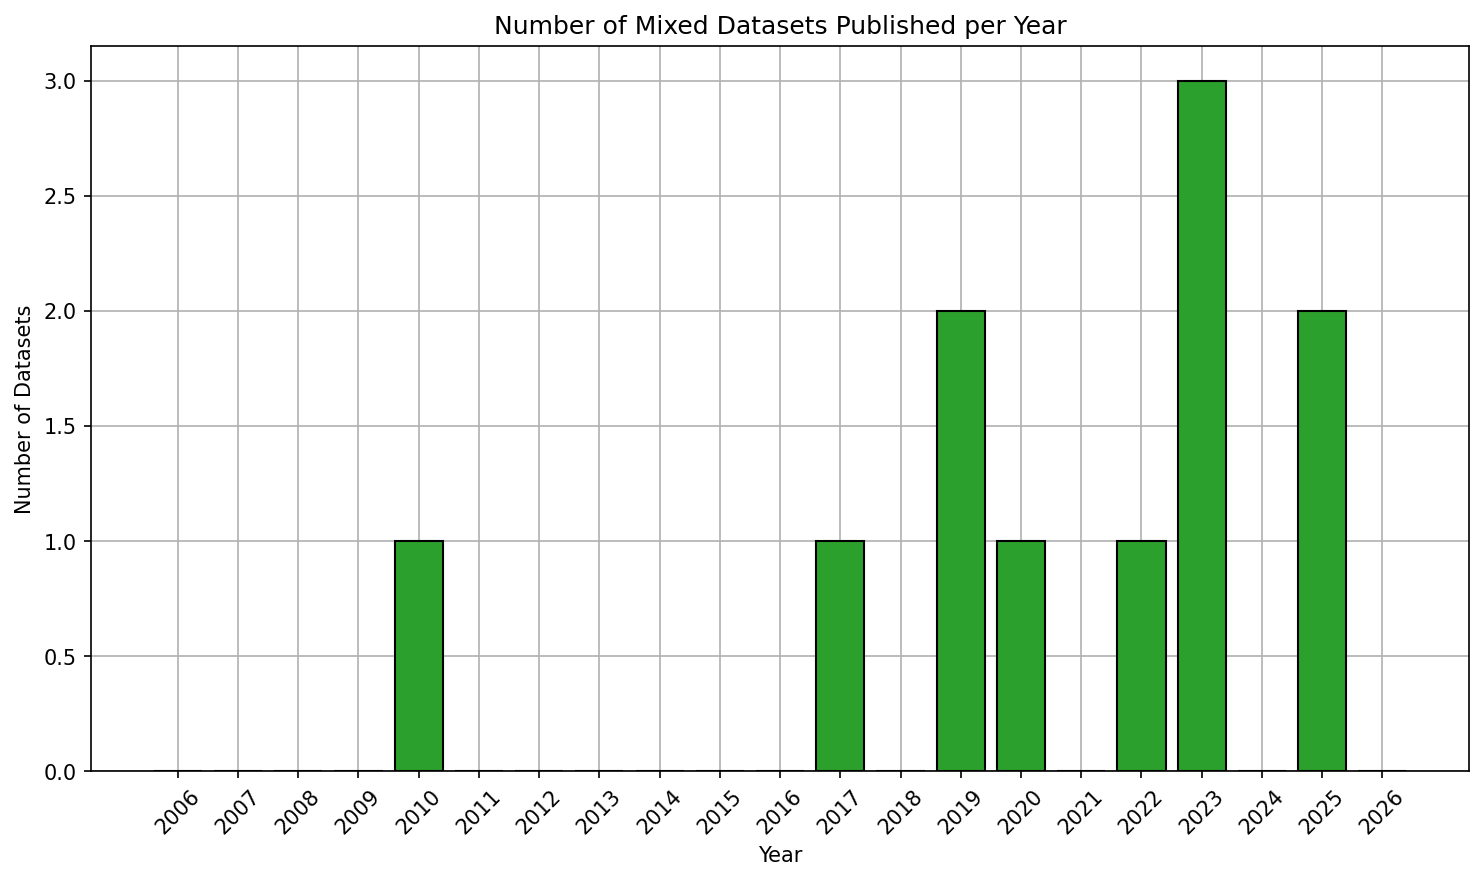
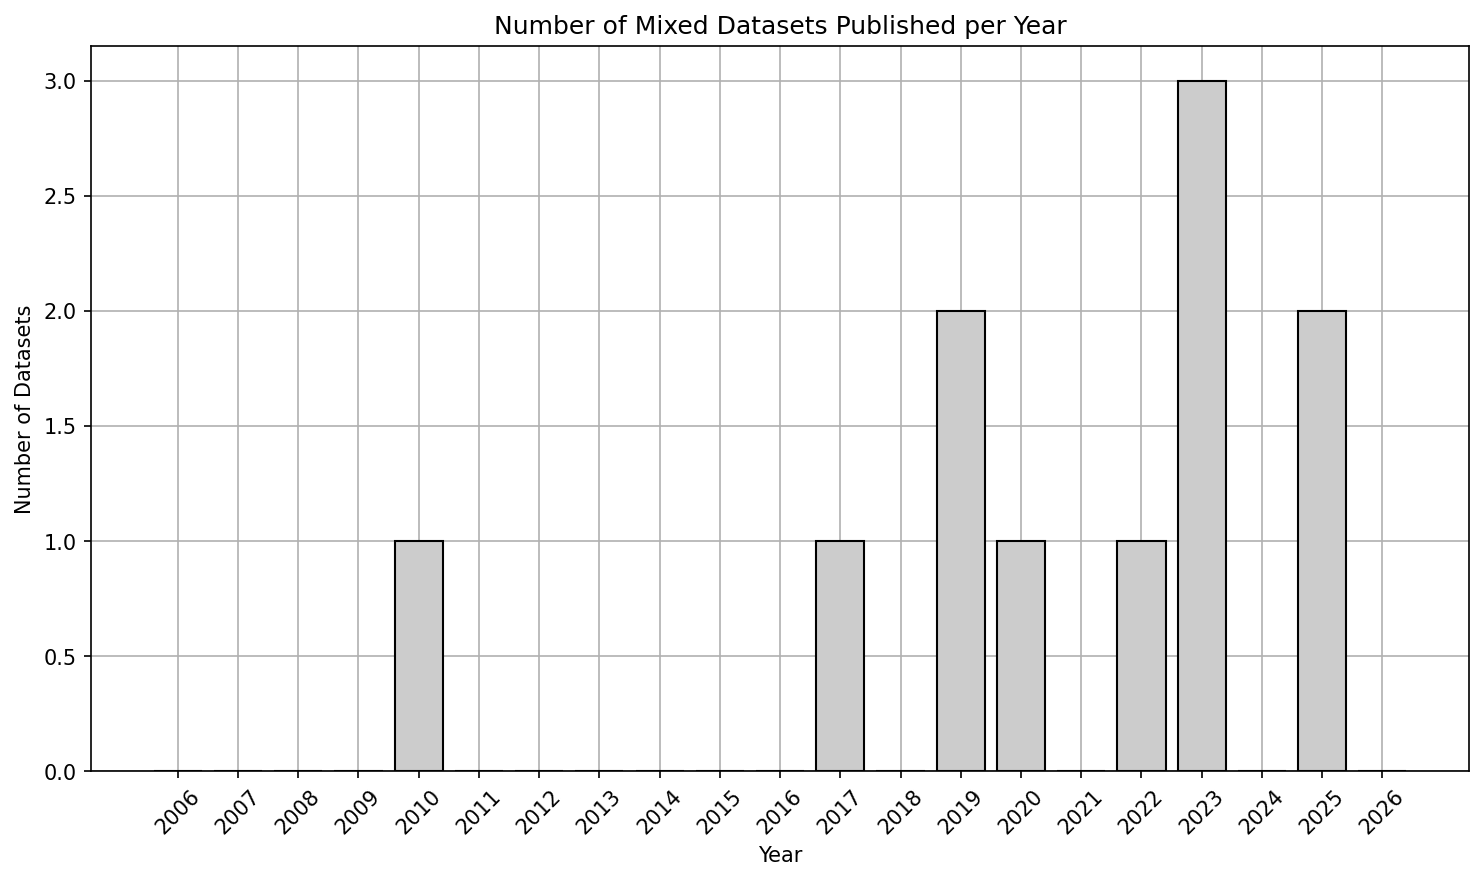
TUM Color 01,02,03

diff --git a/dataset/tum_colors.py b/dataset/tum_colors.py
@@ -1,0 +1,55 @@
+# Official TUM Color Palette
+# Source: TUM Corporate Design Guidelines
+#
+# Color usage hierarchy:
+# 1. Simple graphs (1-3 categories)  → use blue shades only (TUM_BLUES)
+# 2. More categories needed          → add Akzentfarben (TUM_ACCENT)
+# 3. Complex diagrams                → extended palette permissible (TUM_EXT)
+
+# ── Primary Colors ────────────────────────────────────────────────────────────
+TUM_PRIMARY = {
+    'tum_blue'  : '#0065BD',   # TUMBlue — Pantone 300C, main brand color
+    'black'     : '#000000',
+    'white'     : '#FFFFFF',
+}
+
+# ── Secondary Colors ──────────────────────────────────────────────────────────
+TUM_SECONDARY = {
+    'blue1'     :  '#003359',   # Pantone 540
+    'blue1_08'  :  '#335C7A',
+    'blue1_05'  :  '#8099AC',
+    'blue1_02'  :  '#CCD6DE',
+    'blue2'     :  '#005293',   # Pantone 301
+    'blue2_08'  :  '#3375A9',
+    'blue2_05'  :  '#80A9C9',
+    'blue2_02'  :  '#CCDCE9',
+    'dark_gray' :  '#333333',   # 80% black
+    'gray'      :  '#808080',   # 50% black
+    'light_gray':  '#CCCCCC',   # 20% black
+}
+
+
+# ── Akzentfarben (Accent Colors) ──────────────────────────────────────────────
+# Use when blue shades are not enough
+TUM_ACCENT = {
+    'beige'      : '#DAD7CB',   # Pantone 7527
+    'orange'     : '#E37222',   # Pantone 158
+    'green'      : '#A2AD00',   # Pantone 383
+    'blue'       : '#64A0C8',   # Pantone 542
+    'light_blue' : '#98C6EA',   # Pantone 283
+}
+   
+
+# ── Extended Palette — complex diagrams and infographics only ─────────────────
+TUM_EXT = {
+    'purple':      '#69085A',   # RGB 105/8/90
+    'navy':        '#0F1B5F',   # RGB 15/27/95
+    'teal':        '#00778A',   # RGB 0/119/138
+    'dark_green':  '#007C30',   # RGB 0/124/48
+    'olive':       '#679A1D',   # RGB 103/154/29
+    'yellow':      '#FDC000',   # RGB 255/220/0
+    'gold':        '#F6BA00',   # RGB 249/186/0
+    'orange':      '#D64C13',   # RGB 214/76/19
+    'red':         '#C4071B',   # RGB 196/7/27
+    'maroon':      '#9C0D16',   # RGB 156/13/22
+}

diff --git a/dataset/total_dataset_analysis/03_avg_sensors_per_year.py b/dataset/total_dataset_analysis/03_avg_sensors_per_year.py
@@ -1,14 +1,12 @@
 import pandas as pd
 import matplotlib.pyplot as plt
-import os
+import os, sys
+sys.path.append(os.path.join(os.path.dirname(os.path.abspath(__file__)), '..'))
+from tum_colors import TUM_SECONDARY, TUM_EXT
 
 BASE_DIR = os.path.dirname(os.path.abspath(__file__))
 df = pd.read_csv(os.path.join(BASE_DIR, 'dataset_cleaned.csv'))
 
-# Filter: Real (0) + Original (0) only
-# Exclude Synthetic: no physical sensors
-# Exclude Mixed: unknown real/synthetic ratio
-# Exclude Derived/Extension/Aggregated: causes double counting of sensors
 filtered = df[
     (df['Real / Synthetic / Mixed'] == 0) &
     (df['Original / Derived / Extension / Aggregated'] == 0) |
@@ -31,8 +29,8 @@ fig, ax1 = plt.subplots(figsize=(10, 6))
 ax2 = ax1.twinx()
 ax1.grid(True, alpha=0.4, zorder=1)
 ax1.set_axisbelow(True)
-ax2.bar(stats.index, stats['count'],  edgecolor='black', label='Number of Datasets', zorder=2, alpha=0.4)
-ax1.plot(valid.index, valid['mean'], color='red', linewidth=2, marker='o', markerfacecolor='white', markeredgecolor='red', label='Average Sensors', zorder=3)
+ax2.bar(stats.index, stats['count'], color=TUM_SECONDARY['blue2'], edgecolor='black', label='Number of Datasets', zorder=2, alpha=0.5)
+ax1.plot(valid.index, valid['mean'], color=TUM_EXT['red'], linewidth=2, marker='o', markerfacecolor='white', markeredgecolor=TUM_EXT['red'], label='Average Sensors', zorder=3)
 ax1.set_title('Average Sensor Count per Year (Real & Original+Extension Datasets only)')
 ax1.set_xlabel('Year')
 ax1.set_ylabel('Average Number of Sensors')
@@ -46,7 +44,6 @@ lines2, labels2 = ax2.get_legend_handles_labels()
 ax1.legend(lines1 + lines2, labels1 + labels2, loc='upper left')
 ax2.set_ylim(0, stats['count'].max() * 3)
 plt.tight_layout()
-
 
 out = os.path.join(BASE_DIR, 'total_dataset_analysis_figures', '03_avg_sensors_per_year.png')
 plt.savefig(out, dpi=150, bbox_inches='tight')

diff --git a/dataset/total_dataset_analysis/01d_dataset_to_year_total.py b/dataset/total_dataset_analysis/01d_dataset_to_year_total.py
@@ -1,6 +1,8 @@
 import pandas as pd
 import matplotlib.pyplot as plt
-import os
+import os, sys
+sys.path.append(os.path.join(os.path.dirname(os.path.abspath(__file__)), '..'))
+from tum_colors import TUM_SECONDARY
 
 BASE_DIR = os.path.dirname(os.path.abspath(__file__))
 df = pd.read_csv(os.path.join(BASE_DIR, 'dataset_cleaned.csv'))
@@ -18,17 +20,17 @@ counts = (df.groupby(['Year', 'Type'])
 years = counts.index.tolist()
 
 plt.figure(figsize=(10, 6))
-plt.bar(years, counts['Real'], label='Real', edgecolor='black', color='C0')
-plt.bar(years, counts['Synthetic'], label='Synthetic', bottom=counts['Real'], edgecolor='black', color='C1')
-plt.bar(years, counts['Mixed'], label='Mixed', bottom=counts['Real'] + counts['Synthetic'], edgecolor='black', color='C2')
+plt.bar(years, counts['Real'], label='Real', edgecolor='black', color=TUM_SECONDARY['blue2'])
+plt.bar(years, counts['Synthetic'], label='Synthetic', bottom=counts['Real'], edgecolor='black', color=TUM_SECONDARY['gray'])
+plt.bar(years, counts['Mixed'], label='Mixed', bottom=counts['Real'] + counts['Synthetic'], edgecolor='black', color=TUM_SECONDARY['light_gray'])
 plt.title('Total Number of Datasets Published per Year')
 plt.xlabel('Year')
 plt.ylabel('Number of Datasets')
 plt.xticks(years, rotation=45)
 plt.legend()
-plt.tight_layout()
 plt.grid(True)
 plt.gca().set_axisbelow(True)
+plt.tight_layout()
 
 out = os.path.join(BASE_DIR, 'total_dataset_analysis_figures', '01d_dataset_to_year_total.png')
 plt.savefig(out, dpi=150, bbox_inches='tight')

diff --git a/dataset/total_dataset_analysis/02_cumulative_dataset.py b/dataset/total_dataset_analysis/02_cumulative_dataset.py
@@ -1,6 +1,8 @@
 import pandas as pd
 import matplotlib.pyplot as plt
-import os
+import os, sys
+sys.path.append(os.path.join(os.path.dirname(os.path.abspath(__file__)), '..'))
+from tum_colors import TUM_SECONDARY
 
 BASE_DIR = os.path.dirname(os.path.abspath(__file__))
 df = pd.read_csv(os.path.join(BASE_DIR, 'dataset_cleaned.csv'))
@@ -21,7 +23,8 @@ cumul['Total'] = cumul['Real'] + cumul['Synthetic'] + cumul['Mixed']
 plt.figure(figsize=(10, 6))
 plt.stackplot(cumul.index,
               cumul['Real'], cumul['Synthetic'], cumul['Mixed'],
-              labels=['Real', 'Synthetic', 'Mixed'], colors=['C0', 'C1', 'C2'], alpha=0.7)
+              labels=['Real', 'Synthetic', 'Mixed'],
+              colors=[TUM_SECONDARY['blue2'], TUM_SECONDARY['gray'], TUM_SECONDARY['light_gray']], alpha=0.8)
 plt.plot(cumul.index, cumul['Total'], color='black', linewidth=2, label='Total')
 plt.title('Cumulative Number of Datasets Over Time')
 plt.xlabel('Year')
@@ -29,9 +32,9 @@ plt.ylabel('Cumulative Number of Datasets')
 plt.xlim(2006, 2026)
 plt.xticks(list(years), rotation=45)
 plt.legend()
-plt.tight_layout()
 plt.grid(True)
 plt.gca().set_axisbelow(True)
+plt.tight_layout()
 
 out = os.path.join(BASE_DIR, 'total_dataset_analysis_figures', '02_cumulative_datasets.png')
 plt.savefig(out, dpi=150, bbox_inches='tight')

diff --git a/dataset/total_dataset_analysis/01b_dataset_to_year_syn.py b/dataset/total_dataset_analysis/01b_dataset_to_year_syn.py
@@ -1,6 +1,8 @@
 import pandas as pd
 import matplotlib.pyplot as plt
-import os
+import os, sys
+sys.path.append(os.path.join(os.path.dirname(os.path.abspath(__file__)), '..'))
+from tum_colors import TUM_SECONDARY
 
 BASE_DIR = os.path.dirname(os.path.abspath(__file__))
 df = pd.read_csv(os.path.join(BASE_DIR, 'dataset_cleaned.csv'))
@@ -9,14 +11,14 @@ synthetic = df[df['Real / Synthetic / Mixed'] == 1]
 counts = synthetic.groupby('Year').size().reindex(range(2006, 2027), fill_value=0)
 
 plt.figure(figsize=(10, 6))
-plt.bar(counts.index, counts.values, edgecolor='black', color='C1')
+plt.bar(counts.index, counts.values, edgecolor='black', color=TUM_SECONDARY["gray"])
 plt.title('Number of Synthetic Datasets Published per Year')
 plt.xlabel('Year')
 plt.ylabel('Number of Datasets')
 plt.xticks(counts.index, rotation=45)
-plt.tight_layout()
 plt.grid(True)
 plt.gca().set_axisbelow(True)
+plt.tight_layout()
 
 out = os.path.join(BASE_DIR, 'total_dataset_analysis_figures', '01b_dataset_to_year_syn.png')
 plt.savefig(out, dpi=150, bbox_inches='tight')

diff --git a/dataset/total_dataset_analysis/01c_dataset_to_year_mix.py b/dataset/total_dataset_analysis/01c_dataset_to_year_mix.py
@@ -1,6 +1,8 @@
 import pandas as pd
 import matplotlib.pyplot as plt
-import os
+import os, sys
+sys.path.append(os.path.join(os.path.dirname(os.path.abspath(__file__)), '..'))
+from tum_colors import TUM_SECONDARY
 
 BASE_DIR = os.path.dirname(os.path.abspath(__file__))
 df = pd.read_csv(os.path.join(BASE_DIR, 'dataset_cleaned.csv'))
@@ -9,14 +11,14 @@ mixed = df[df['Real / Synthetic / Mixed'] == 2]
 counts = mixed.groupby('Year').size().reindex(range(2006, 2027), fill_value=0)
 
 plt.figure(figsize=(10, 6))
-plt.bar(counts.index, counts.values, edgecolor='black', color='C2')
+plt.bar(counts.index, counts.values, edgecolor='black', color=TUM_SECONDARY['light_gray'])
 plt.title('Number of Mixed Datasets Published per Year')
 plt.xlabel('Year')
 plt.ylabel('Number of Datasets')
 plt.xticks(counts.index, rotation=45)
-plt.tight_layout()
 plt.grid(True)
 plt.gca().set_axisbelow(True)
+plt.tight_layout()
 
 out = os.path.join(BASE_DIR, 'total_dataset_analysis_figures', '01c_dataset_to_year_mix.png')
 plt.savefig(out, dpi=150, bbox_inches='tight')

diff --git a/dataset/total_dataset_analysis/01a_dataset_to_year_real.py b/dataset/total_dataset_analysis/01a_dataset_to_year_real.py
@@ -1,6 +1,8 @@
 import pandas as pd
 import matplotlib.pyplot as plt
-import os
+import os, sys
+sys.path.append(os.path.join(os.path.dirname(os.path.abspath(__file__)), '..'))
+from tum_colors import TUM_SECONDARY
 
 BASE_DIR = os.path.dirname(os.path.abspath(__file__))
 df = pd.read_csv(os.path.join(BASE_DIR, 'dataset_cleaned.csv'))
@@ -9,14 +11,14 @@ real = df[df['Real / Synthetic / Mixed'] == 0]
 counts = real.groupby('Year').size().reindex(range(2006, 2027), fill_value=0)
 
 plt.figure(figsize=(10, 6))
-plt.bar(counts.index, counts.values, edgecolor='black', color='C0')
+plt.bar(counts.index, counts.values, edgecolor='black', color=TUM_SECONDARY['blue2'])
 plt.title('Number of Real Datasets Published per Year')
 plt.xlabel('Year')
 plt.ylabel('Number of Datasets')
 plt.xticks(counts.index, rotation=45)
-plt.tight_layout()
 plt.grid(True)
 plt.gca().set_axisbelow(True)
+plt.tight_layout()
 
 out = os.path.join(BASE_DIR, 'total_dataset_analysis_figures', '01a_dataset_to_year_real.png')
 plt.savefig(out, dpi=150, bbox_inches='tight')
